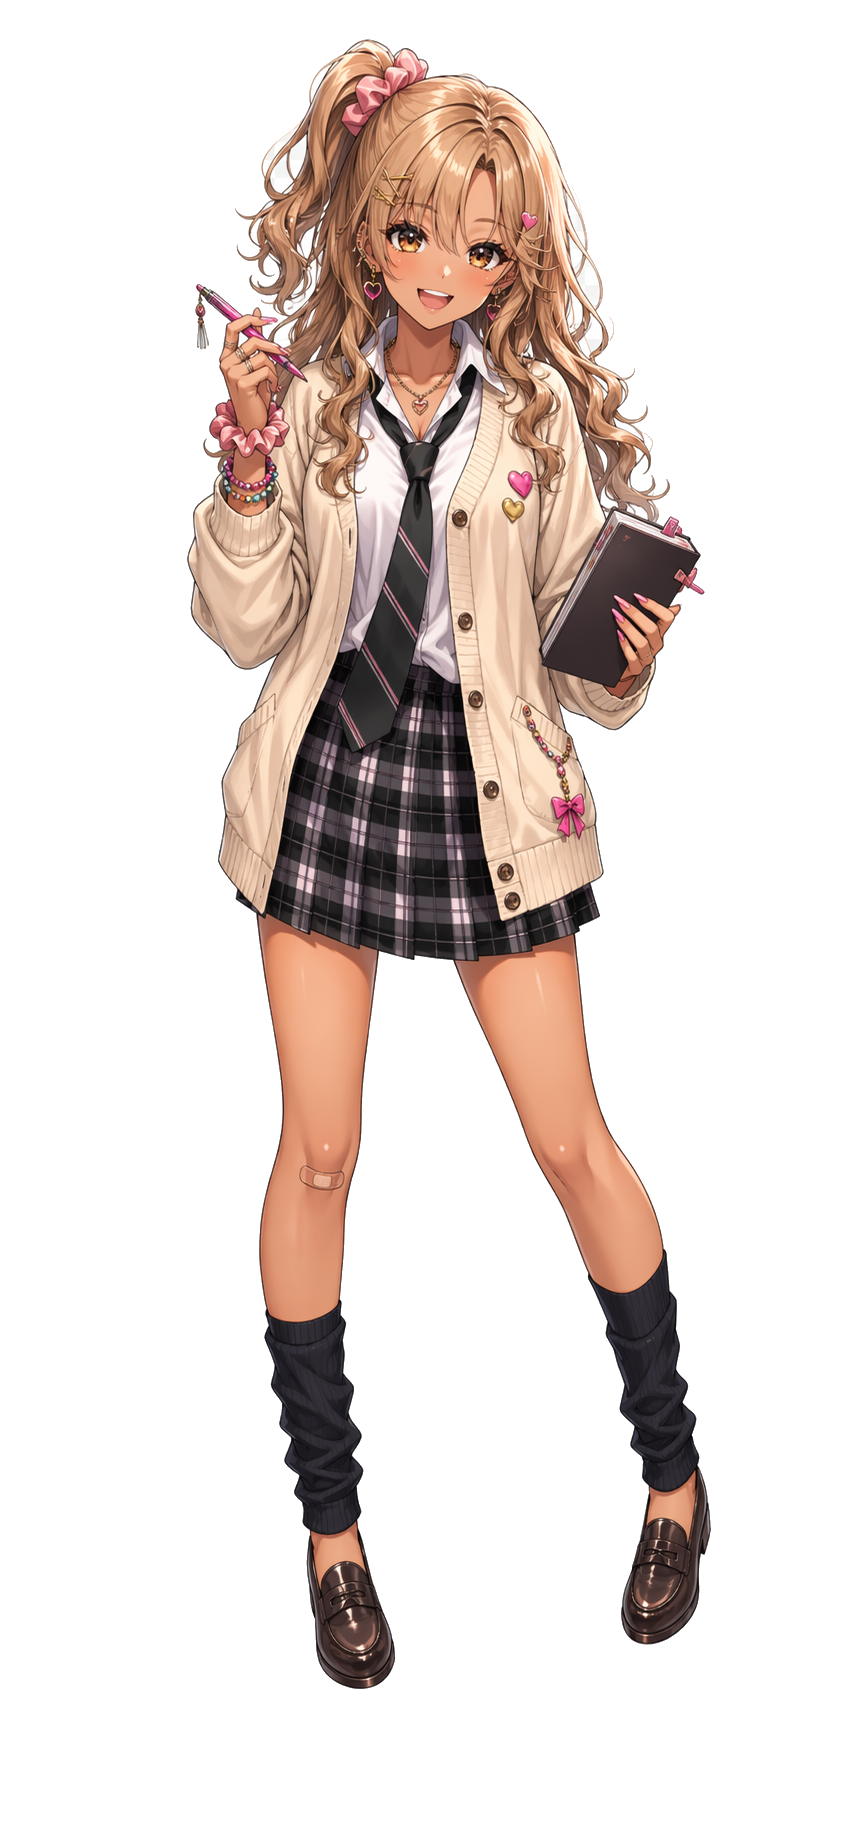
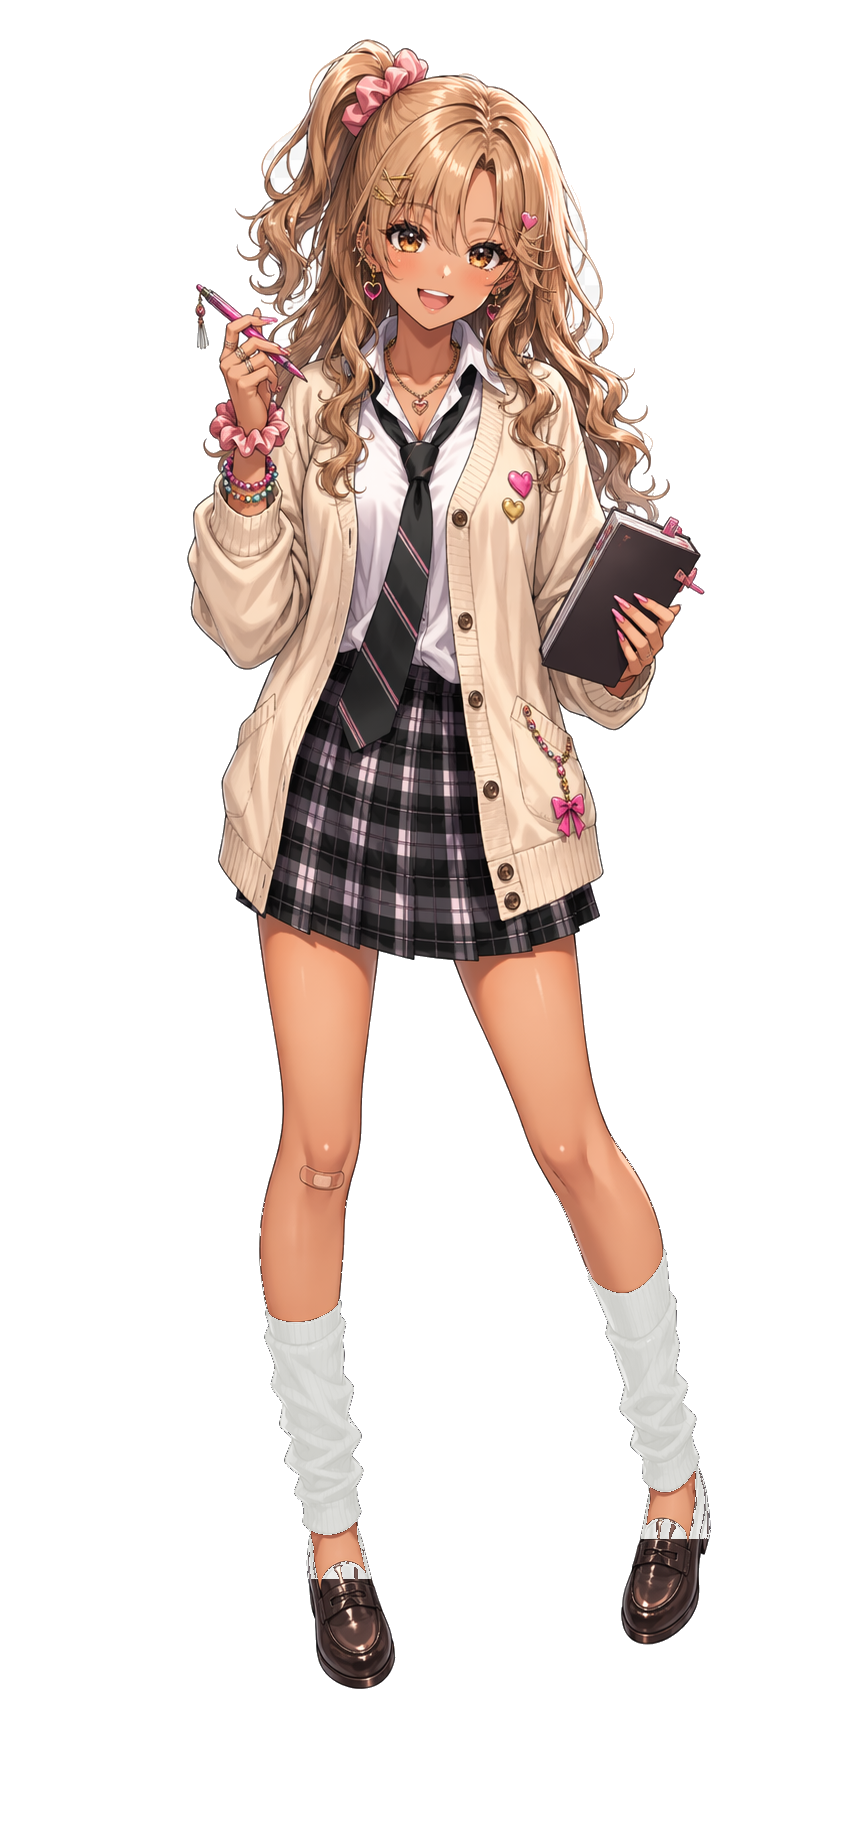
Change gyaru socks to white

Changed region(s): [[0.3125, 0.7073, 0.4375, 0.8918], [0.6875, 0.6766, 0.8125, 0.8611]]

diff --git a/docs/third-party-notices.md b/docs/third-party-notices.md
@@ -60,6 +60,8 @@ The ending CGs were generated with the built-in image generation tool and copied
 | `ギャル伝説` ending | `/home/minougun/.codex-wsl/generated_images/019dc099-3099-7753-9c28-0b7765b5c4f6/ig_044ff7593fe574a60169ebcdececec8191a86859777279050a.png` | `/mnt/c/Users/minou/juken-bancho/web/assets/images/endings/gyaru/legend-gyaru.png` |
 | `不合格ギャル` ending | `/home/minougun/.codex-wsl/generated_images/019dc099-3099-7753-9c28-0b7765b5c4f6/ig_044ff7593fe574a60169ebce30fb208191a72d0d5a9c2a9938.png` | `/mnt/c/Users/minou/juken-bancho/web/assets/images/endings/gyaru/failed-gyaru.png` |
 
+Note: the `優等生ギャル` sprite files were edited on 2026-04-25 to change only the socks from black to white while preserving the original pose and transparency. A built-in image generation edit candidate was created at `/home/minougun/.codex-wsl/generated_images/019dc099-3099-7753-9c28-0b7765b5c4f6/ig_0bf288f907228fe40169ec02da3240819193bd082520b2bf9b.png`; the final workspace files use the original transparent sprite as the base with the sock color locally recolored.
+
 ## Generated Seasonal Event CGs
 
 The seasonal event CGs were generated with the built-in image generation tool and copied into the project.
